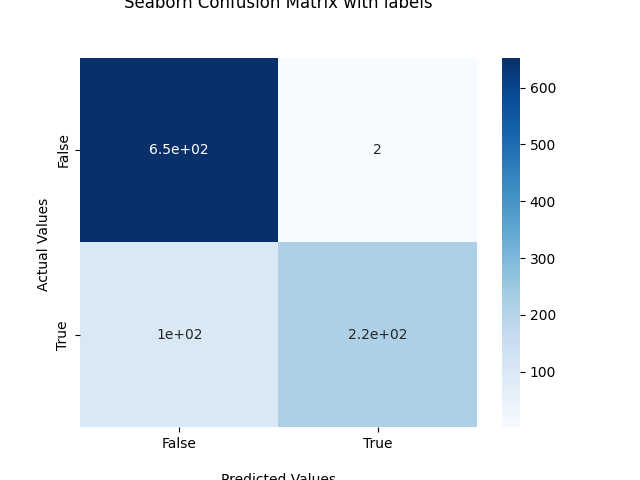
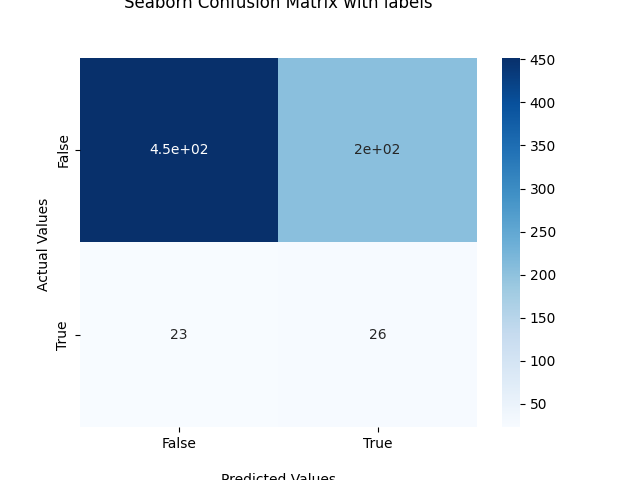
corrections on only metamap

diff --git a/models.py b/models.py
@@ -1,4 +1,4 @@
-from baselines import no_pipeline_entropy, no_pipeline_tfidf, tfidf_training_model,doc2vec_training_model,entropy_training_model
+from baselines import metamap_only, no_pipeline_entropy, no_pipeline_tfidf, tfidf_training_model,doc2vec_training_model,entropy_training_model
 # from bert import bert_training_model, bert_validate
 import os
 import joblib
@@ -8,7 +8,7 @@ from tqdm import tqdm
 
 
 class ModelSelection(object):
-    def __init__(self,model = 'entropy',clf_opt = 'ab',num_features = None,num_jobs = 1,model_name = 'bert-base-uncased',metamap = False) -> None:
+    def __init__(self,model = 'entropy',clf_opt = 'ab',num_features = None,num_jobs = 1,model_name = 'bert-base-uncased',metamap = False,force_train = False,metamap_only = False) -> None:
         self.model = model
         self.opt = clf_opt
         self.num_features  = num_features
@@ -16,8 +16,10 @@ class ModelSelection(object):
         self.num_jobs = num_jobs    
         self.model_name = model_name
         self.metamap = metamap
+        self.force_train = force_train
+        self.metamap_only = metamap_only
         self.check_path = os.path.join(os.getcwd(),'saved_models',model+'_'+clf_opt,model+'_'+clf_opt+'_'+str(num_features)+'_clf.joblib')
-        if not os.path.exists(self.check_path):
+        if (not os.path.exists(self.check_path) or self.force_train):
             self.save = True
         if not self.save:
             print('Loading Pretrained ',model,' Model')
@@ -27,13 +29,18 @@ class ModelSelection(object):
         self.predicted = [0 for _ in range(0,len(x_valid))]                
         tst_vec=[]; tst_docs=[]
 
-        if self.model == 'tfidf':
+        if self.metamap_only:
+            # print(len(y_train),str(len(metamap_features_trn))+','+str(len(metamap_features_trn[0])))
+            clf = metamap_only(y_train,metamap_features_trn,self.opt)
+            predicted = clf.predict(metamap_features_valid)
+            predicted_probability = clf.predict_proba(metamap_features_valid)
+
+        elif self.model == 'tfidf':
             if self.save:
                 if not self.metamap:
                     clf,_=tfidf_training_model(x_train,y_train,self.num_features,self.opt,self.num_jobs)
                 else:
                     clf,x_valid=no_pipeline_tfidf(x_train,y_train,x_valid,metamap_features_trn,metamap_features_valid,self.num_features,self.opt,self.num_jobs)
-                    print(x_valid.shape)
                     predicted = clf.predict(x_valid)
                     predicted_probability = clf.predict_proba(x_valid)
             else:

diff --git a/extract_metamap.py b/extract_metamap.py
@@ -1,0 +1,26 @@
+# path: path of a metamap output file
+# semantic_types: a set of given UMLS semantic types
+# mf: dictionary of all unique metamap features belong to the given semantic types and the count of such terms are also recorded 
+
+import codecs, re
+
+def feature_generation_from_metamap_output(path,semantic_types): 
+    note = codecs.open(path,encoding='utf-8',mode='r').readlines()
+    mf={}
+    for l in range(0,len(note)): 
+        line=note[l].strip('\n')
+        result=re.search( r'(.+?)(\b[7-9][0-9][0-9]|1000\b)([ ]+)([C])([0-9]+)(:)(.+)', line)  # change the confidence score  here from 1000 to any other number, if required
+        if result:
+            match=result.group(0)                    
+            st=re.search( r'(\[)([a-zA-Z, ]+)(\])', match)
+            if st and semantic_types.count(st.group(2)):      # Checking the desired semantic type
+                ptrn=re.search( r'([C])([0-9]+)(:)', match)   # Extracting concept id
+                if ptrn:
+                    cid=ptrn.group(1)+ptrn.group(2)                                                  
+                    if cid not in list(mf.keys):
+                        mf[cid]=[]
+                        mf[cid]=1
+                        print(cid+'\t'+st.group(2))
+                    else:
+                        mf[cid]+=1
+    return mf 

diff --git a/main.py b/main.py
@@ -31,6 +31,8 @@ parser.add_argument('--model_name', metavar='T', type=str, default='bert-base-un
                     help='name of the huggingface transformer')
 parser.add_argument('--subreddit', action='store_true',default=False)
 parser.add_argument('--metamap', action='store_true',default=False)
+parser.add_argument('--force_train', action='store_true',default=False)
+parser.add_argument('--metamap_only',action ='store_true',default = False)
 args = parser.parse_args()
 ############### Preparing Data ##################
 dataset = PathologicalGamblingDataset(os.path.join(os.getcwd(),args.train_loc),args.fpath,args)
@@ -46,7 +48,7 @@ print(len(trn_data),len(trn_cat))
 option = args.model
 clf_opt = args.clf
 num_features = args.features
-model = ModelSelection(option,clf_opt,num_features,args.jobs,model_name=args.model_name,metamap = args.metamap)
+model = ModelSelection(option,clf_opt,num_features,args.jobs,model_name=args.model_name,metamap = args.metamap,force_train=args.force_train,metamap_only=args.metamap_only)
 
 ############### KFold Cross Validation ##########
 skf = StratifiedKFold(n_splits=10)

diff --git a/baselines.py b/baselines.py
@@ -28,11 +28,21 @@ if not os.path.exists(os.path.join(path,'saved_models')):
     os.mkdir(os.path.join(path,'saved_models'))
 
 
+def metamap_only(trn_cat,trn_features,clf_opt = 'ab'):
+    print('\n ***** Building Metamap Feature Based Training Model ***** \n')         
+    clf,clf_parameters,ext2= classification_pipeline(clf_opt)
+    trn_data = trn_features
+    clf.fit(trn_data,trn_cat)
+    return clf
+
+
+
 def no_pipeline_tfidf(trn_data,trn_cat,valid_data,trn_features,valid_features,no_of_selected_features = None,clf_opt = 'ab',num_jobs = 1):
     print('\n ***** Building No Pipeline TFIDF Based Training Model ***** \n')         
     clf,clf_parameters,ext2= classification_pipeline(clf_opt)
                                         # To use selected terms of the vocabulary
     print('No of Selected Terms \t'+str(no_of_selected_features)) 
+    
     vectorizer = TfidfVectorizer(token_pattern=r'\b\w+\b')
     x = vectorizer.fit_transform(trn_data)
     selector = SelectKBest(chi2, k=no_of_selected_features)
